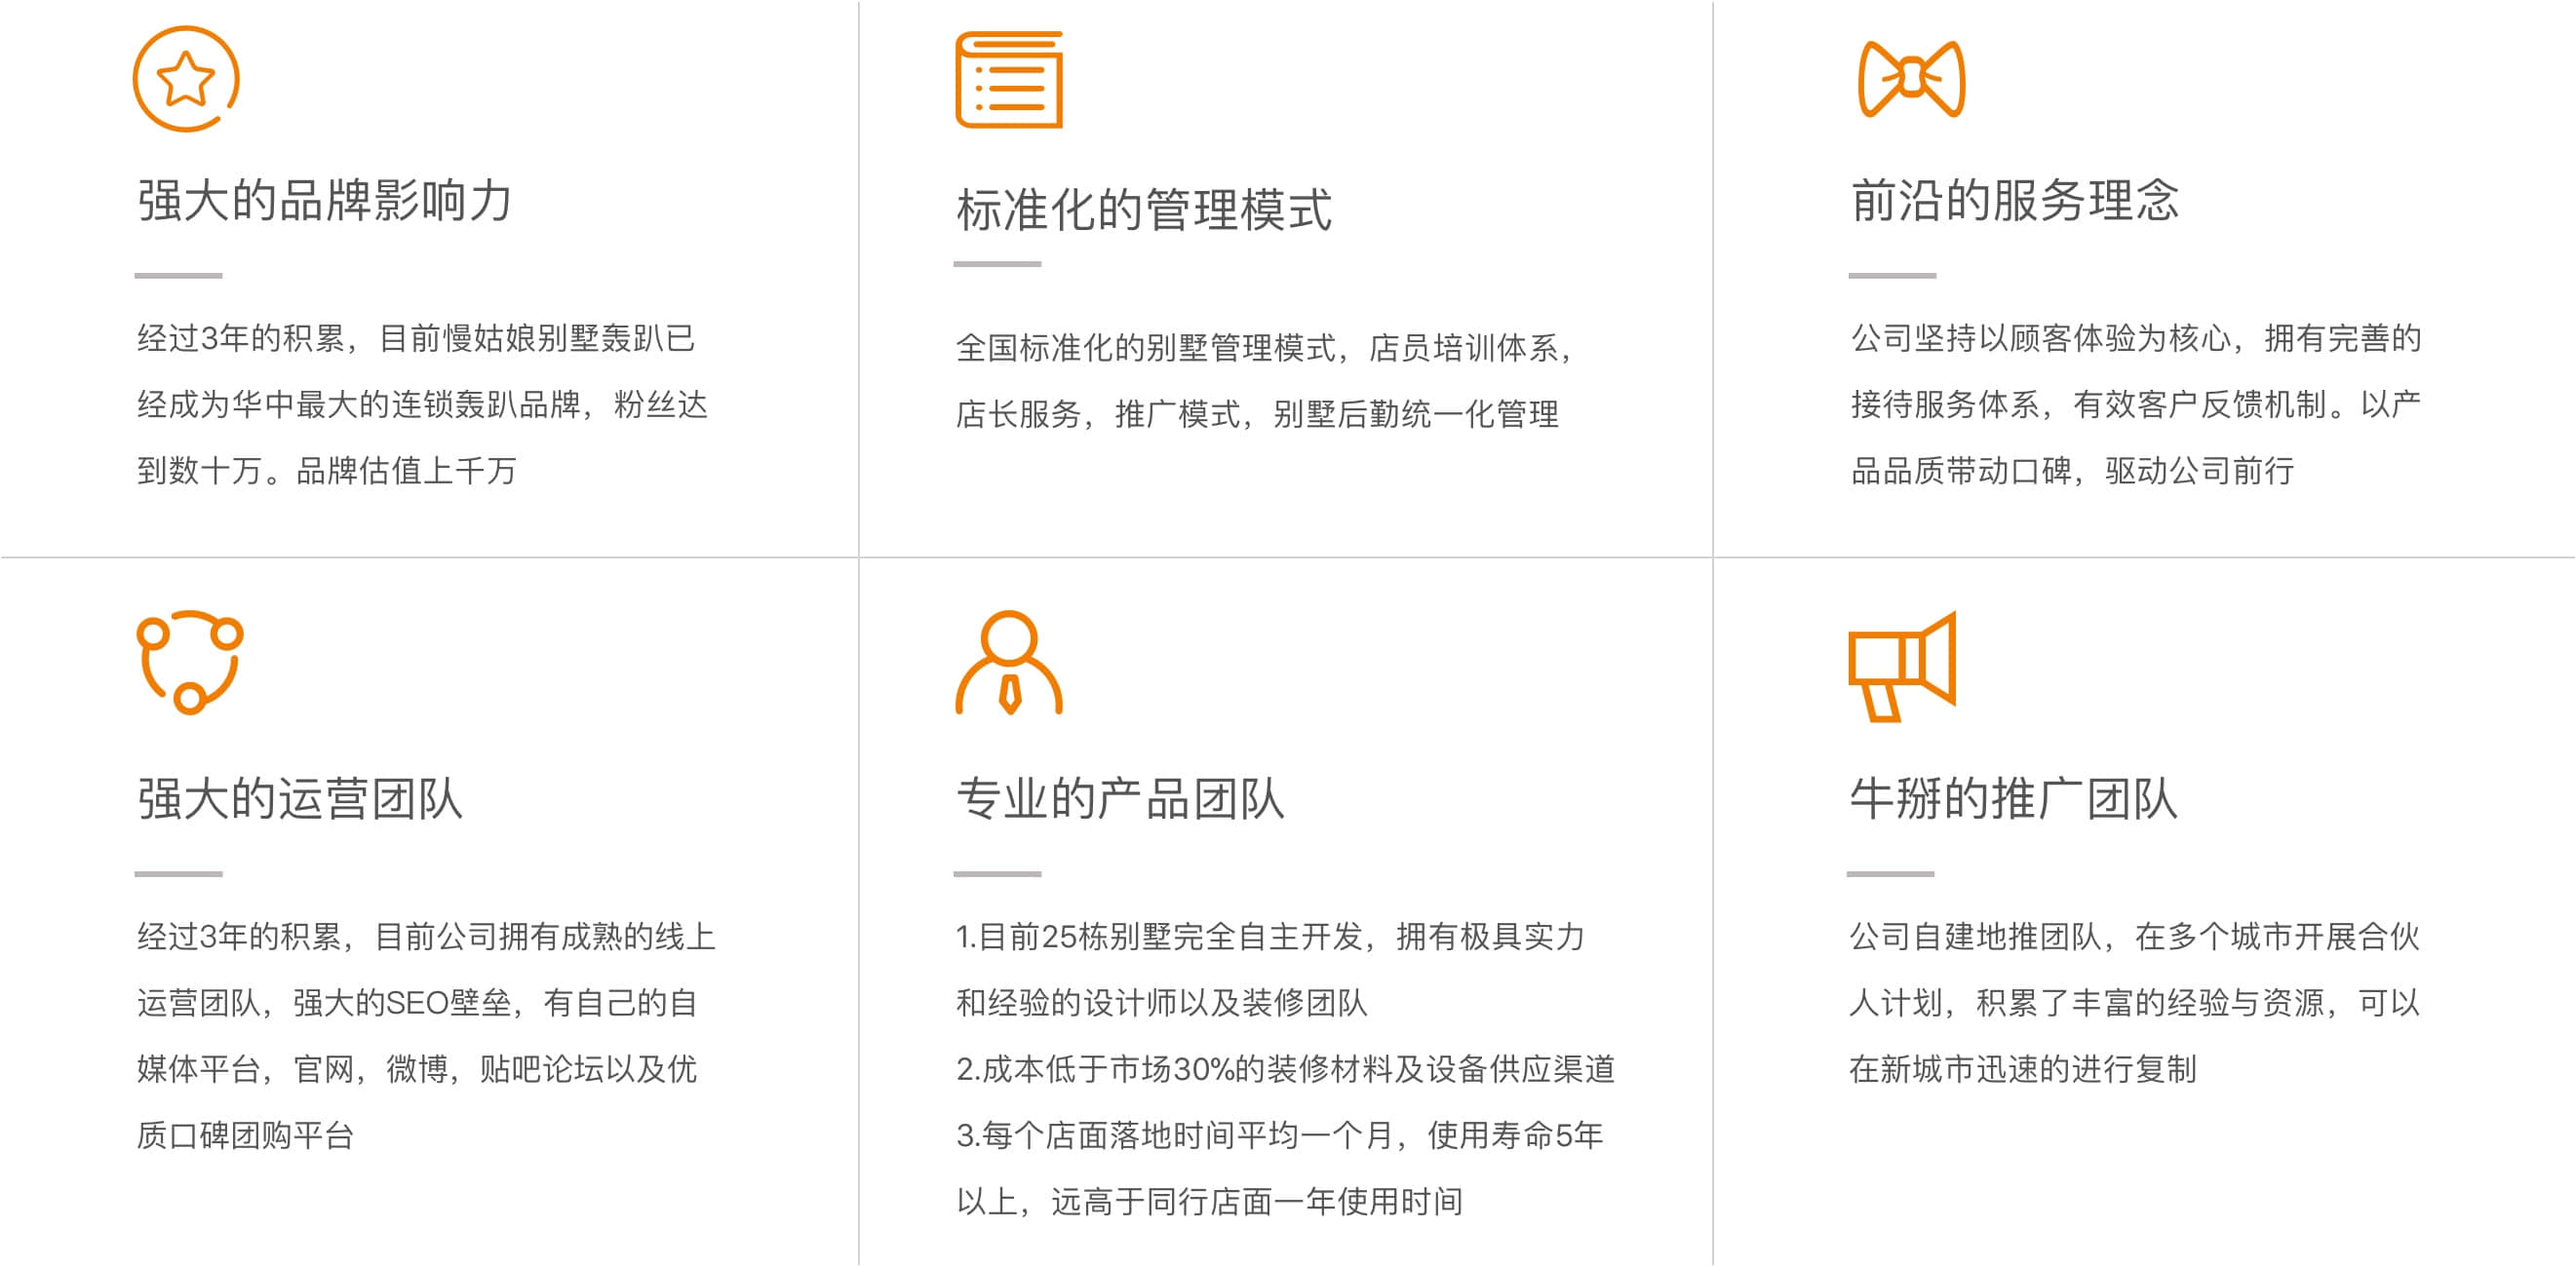
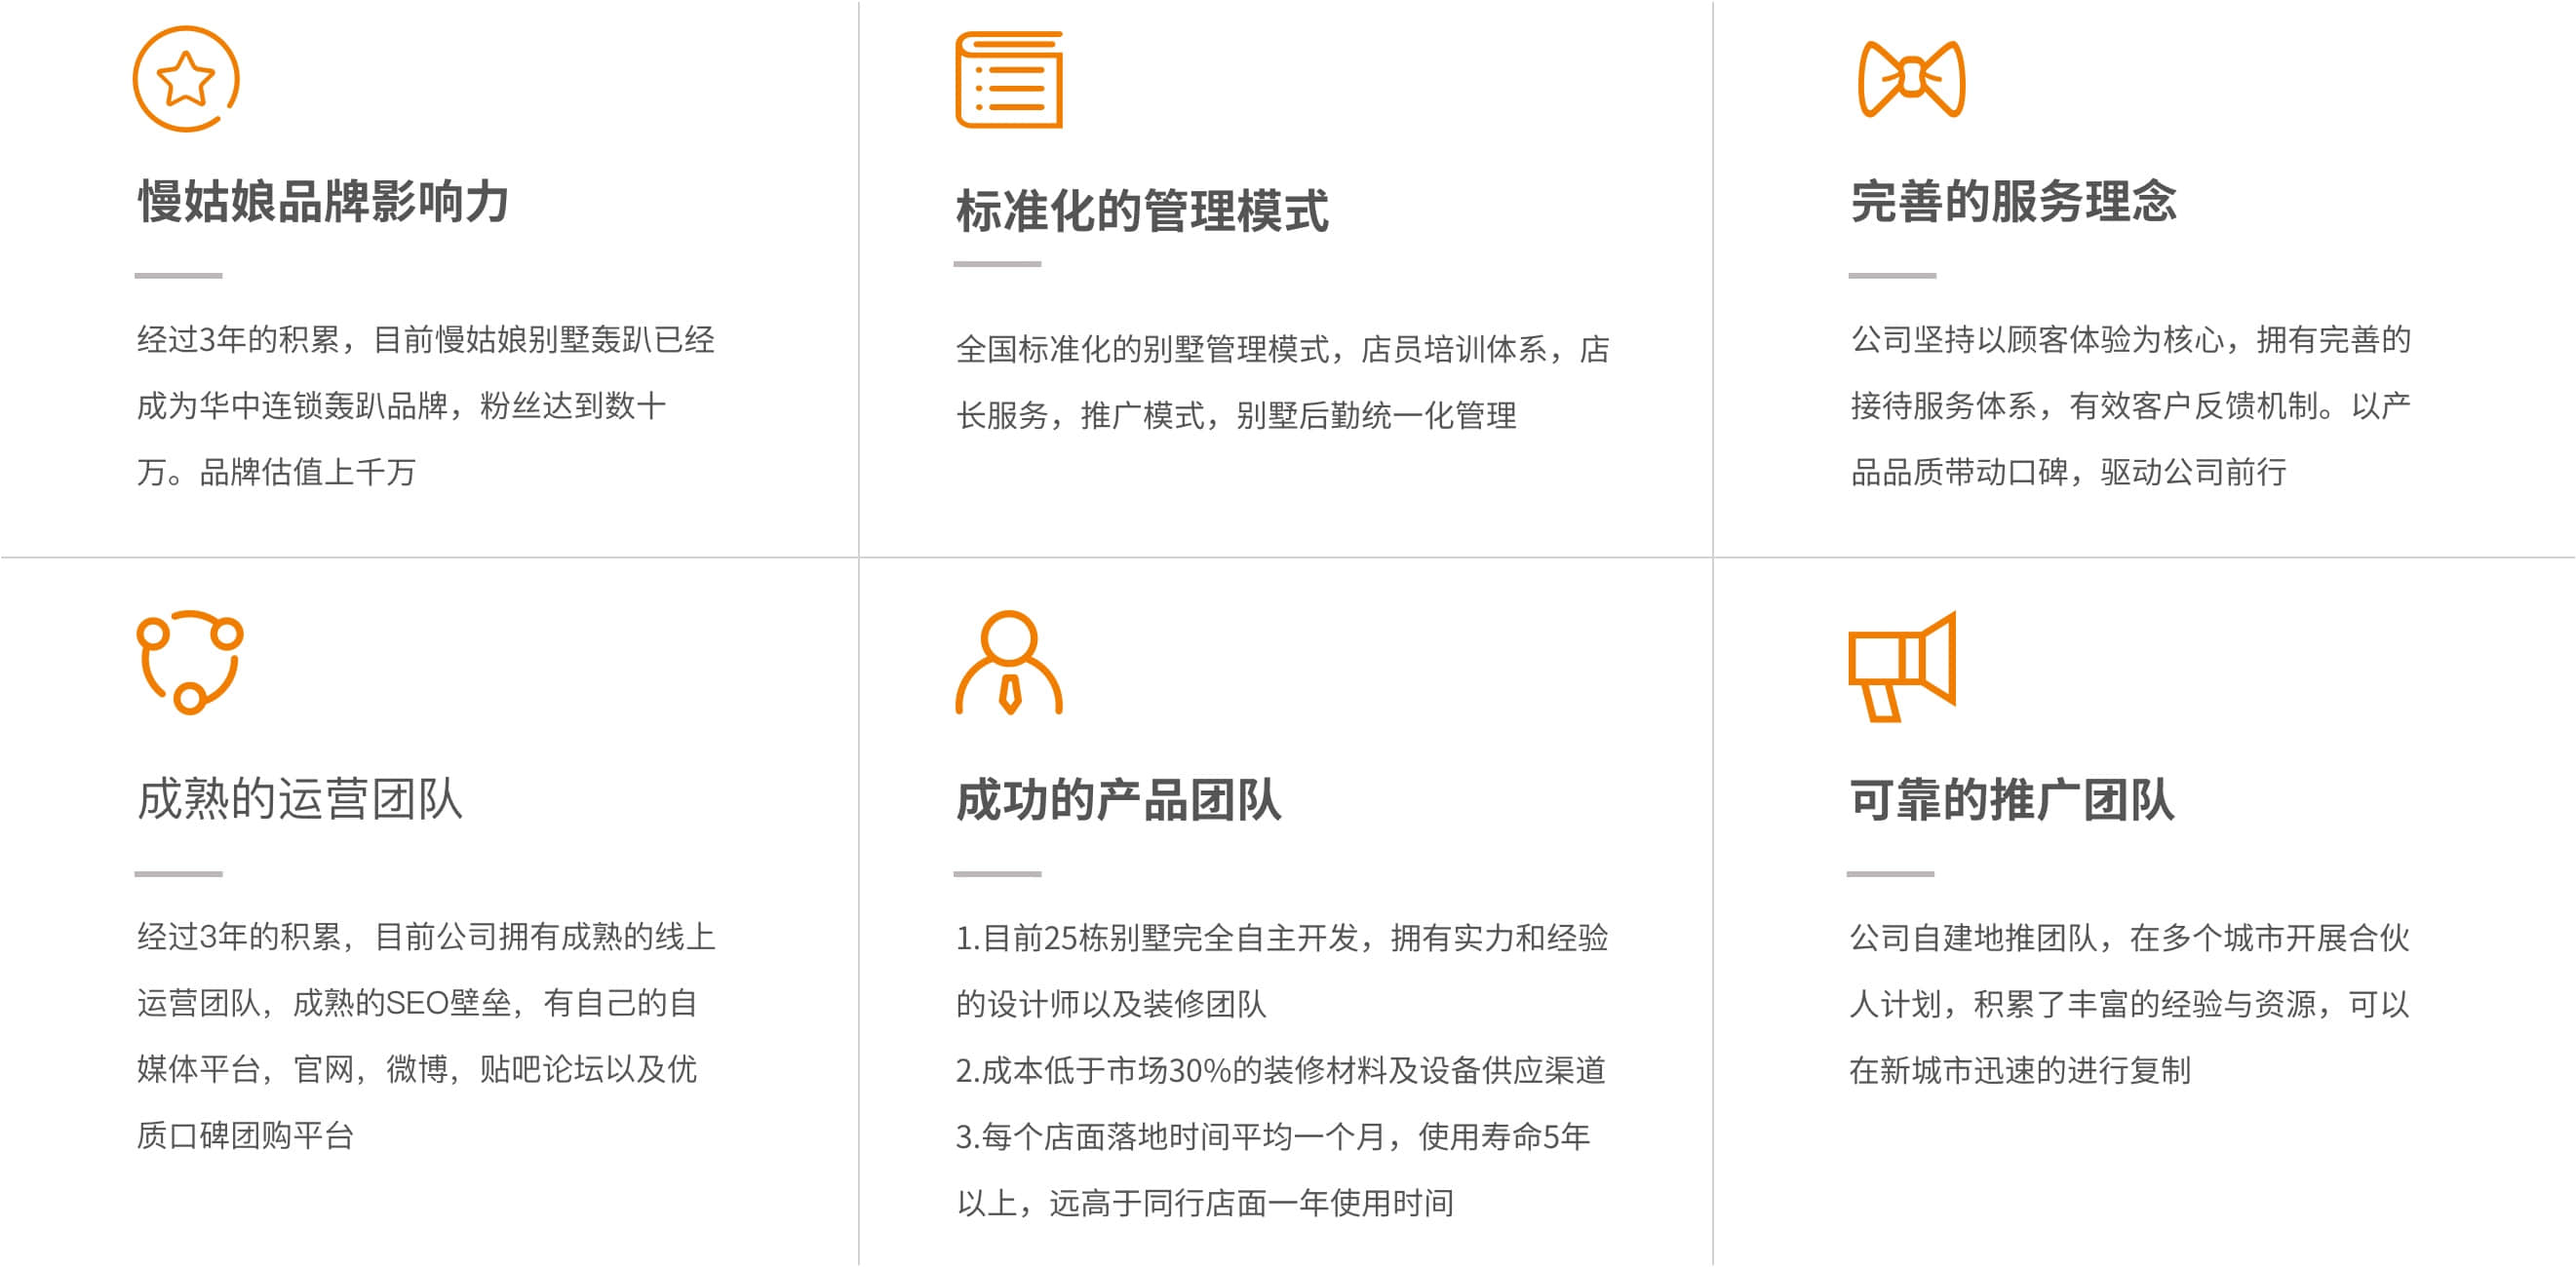
add

diff --git a/src/pages/brand.vue b/src/pages/brand.vue
@@ -3,7 +3,7 @@
         <div class="section1 relative">
             <hp-image :src="headerImage" alt=""></hp-image>
             <div class="s1-text-wrap image-text-wrap" layout="column" layout-align="center center">
-                <div class="title">因为更懂年轻人，所以我们受欢迎</div><br>
+                <div class="title">因为懂年轻人，所以我们受欢迎</div><br>
                 <!-- <div class="sub-tilte fs-18">目前华中最大互联网+连锁轰趴品牌</div> -->
                 <a class="btn btn-white block" href="#/cooperation">了解加盟合作</a>
             </div>
@@ -17,7 +17,7 @@
                             <use xlink:href="#icon-zuanshi"></use>
                         </svg>
                     </div><br><br>
-                    <div class="text text-l3">打造中国领先的<br v-if="isMobile">专业派对文化<br>连锁品牌</div>
+                    <div class="text text-l3">打造中国<br v-if="isMobile">派对文化<br>连锁品牌</div>
                 </div>
                 <div class="p1-item text-center" flex="1">
                     <div class="circle-primary inline-block" :class="{'big':!isMobile}">
@@ -33,7 +33,7 @@
                             <use xlink:href="#icon-lianjie"></use>
                         </svg>
                     </div><br><br>
-                    <div class="text text-l3">打造中国领先的<br v-if="isMobile">综合性聚会<br>娱乐平台</div>
+                    <div class="text text-l3">打造中国<br v-if="isMobile">综合性聚会<br>娱乐平台</div>
                 </div>
             </div>
         </div>
@@ -47,22 +47,22 @@
                         <svg class="icon yizhanshi fs-60" aria-hidden="true">
                             <use xlink:href="#icon-yizhanshi"></use>
                         </svg><br><br>
-                        <div class="text-l2 font-bold">一站式服务</div><br>
-                        <div class="text-l1">为客户提供吃、喝、玩、住一站式服务，打造多种娱乐场景的集合，更适合年轻人聚会的轰趴品牌</div>
+                        <div class="text-l2 font-bold">多样化服务</div><br>
+                        <div class="text-l1">为客户提供吃、喝、玩、住多样化服务，打造多种娱乐场景的集合，适合年轻人聚会的轰趴品牌</div>
                     </div>
                     <div class="p1-item text-center" flex="1">
                         <svg class="icon dunpai fs-60" aria-hidden="true">
                             <use xlink:href="#icon-dunpai"></use>
                         </svg><br><br>
                         <div class="text-l2 font-bold">标准化管理</div><br>
-                        <div class="text-l1">打造轰趴行业标准化管理的行业准则，让客户享受到轰趴行业的五星级服务</div>
+                        <div class="text-l1">打造轰趴行业标准化管理的行业准则，让客户体验到轰趴行业的诚挚服务</div>
                     </div>
                     <div class="p1-item text-center" flex="1">
                         <svg class="icon guanjia fs-60" aria-hidden="true">
                             <use xlink:href="#icon-guanjia"></use>
                         </svg><br><br>
                         <div class="text-l2 font-bold">管家式服务</div><br>
-                        <div class="text-l1">通过专业化培训，让每位管家=初级厨师+活动策划师+布场达人+轰趴运营专员</div>
+                        <div class="text-l1">通过培训，让每位管家=初级厨师+活动策划师+布场达人+轰趴运营专员</div>
                     </div>
                 </div>
             </div>
@@ -153,7 +153,7 @@
                 <div flex="60" flex-xs="100" class="text-wrap" layout="column" layout-align="center center">
                     <div class="text-left">
                         <div class="fs-24">2个基本点：装修+定制</div><br>
-                        <div class="fs-18 color-grey">装修：专业的装修团队，优质的材料与设备供应渠道，打造主题鲜明性价比一流的轰趴馆<br>定制：每月主题活动派对，专业布场，打造特色活动IP，创造粉丝效益，建立行业壁垒</div>
+                        <div class="fs-18 color-grey">装修：成熟的装修团队，好的材料与设备供应渠道，打造主题鲜明性价比强的轰趴馆<br>定制：每月主题活动派对，场地布置，打造特色活动IP，制造粉丝效益，建立行业壁垒</div>
                     </div>
                 </div>
                 <div flex class="margin-left-10">
@@ -166,8 +166,8 @@
                 </div>
                 <div flex class="text-wrap margin-left-10" layout="column" layout-align="center center">
                     <div class="text-left">
-                        <div class="fs-24">3大核心：服务+SEO+地推</div><br>
-                        <div class="fs-18 color-grey">服务：一流的管理团队及培训体系，标准化的服务流程，完善的售后回访机制，以服务打动客户<br>SEO：强大的SEO推广团队，全渠道推广，海量曝光和优质口碑集群，强大的业务壁垒<br>地推：狼性的地推团队，强大的地推网络，完善的校园以及地域合伙人制度</div>
+                        <div class="fs-24">3大要点：服务+SEO+地推</div><br>
+                        <div class="fs-18 color-grey">服务：完善的管理团队及培训体系，标准化的服务流程，售后回访机制，以服务打动客户<br>SEO：成熟的SEO推广团队，全渠道推广，全面曝光口碑集群。<br>地推：狼性的地推团队，成熟的地推网络，完善的校园以及地域合伙人制度。</div>
                     </div>
                 </div>
             </div>
@@ -184,7 +184,7 @@
         </div>
 
         <div class="section3 text-center">
-            <div class="title">我们有牛掰的团队</div>
+            <div class="title">我们有成熟的团队</div>
             <div v-if="!isMobile" class="team-container relative">
                 <div v-for="(item, index) in teamList" :key="item" class="team-item" ref="teams" @click="teamMemberClick(index)">
                     <img :src="item" alt="">

diff --git a/src/pages/introduce.vue b/src/pages/introduce.vue
@@ -15,7 +15,7 @@
         <div class="section2 text-center">
             <div class="paragrah">
                 <div class="title fs-36">一栋别墅，花样百出</div>
-                <div class="p1 text-l3 fs-18 color-grey">随着消费水平的提高，人们对娱乐的需求越大，对娱乐方式的要求也越高。别墅轰趴顺应时代的潮流悄然探头！从各种分析中我们能预见，它将以越来越流行和被普及的姿态，取代传统单一的娱乐方式。前期的市场已验证它的潜力，而此时，正是进入这个领域的最佳时期！</div>
+                <div class="p1 text-l3 fs-18 color-grey">随着消费水平的提升，人们对娱乐的需求越大，对娱乐方式的要求也越高。别墅轰趴顺应时代的潮流悄然探头！从分析中我们能预见，它将以越来越流行和被普及的姿态，取代传统单一的娱乐方式。前期的市场已验证它的潜能，而此时，正是进入这个领域的时期！</div>
             </div>
             <div v-if="!isMobile" class="inline-block" style="max-width: 1440px;width:100%;">
                 <div class="image-wrap" layout="column">
@@ -126,9 +126,9 @@
                 <div flex class="text-right margin-left-10">
                     <div class="fs-36" style="margin-bottom: 60px;">国内聚会存在的问题是什么？</div>
                     <div class="fs-24 text-l2">服务单一，转场难</div><br>
-                    <div class="fs-16 text-l1 color-grey">“每次跟朋友聚会都太单调了，但想玩的丰富点，那就要集体打车换场子，奔波过后，都没心思玩了，而且人多的话更众口难调！”</div><br><br><br><br>
+                    <div class="fs-16 text-l1 color-grey">“每次跟朋友聚会都太单调了，但想玩的丰富点，那就要集体打车换场子，奔波过后，都没心思玩了，而且人多的话众口难调！”</div><br><br><br><br>
                     <div class="fs-24 text-l2">费用高，体验差</div><br>
-                    <div class="fs-16 text-l1 color-grey">越想玩的好越贵，比如唱K加吃饭，再去玩玩桌游，这么多人还真不便宜，而且不能保证服务和环境的质量。</div>
+                    <div class="fs-16 text-l1 color-grey">越想玩的好越贵，比如唱K加吃饭，再去玩玩桌游，这么多人还真不便宜，而且不能保障服务和环境的质量。</div>
                 </div>
             </div>
         </div>

diff --git a/src/pages/home.vue b/src/pages/home.vue
@@ -51,7 +51,7 @@
                             <use xlink:href="#icon-lingdai"></use>
                         </svg>
                         <div class="title text-l2 font-bold">品牌宗旨</div>
-                        <span class="text-l2">一站式服务</span><br>
+                        <span class="text-l2">多样化服务</span><br>
                         <span class="text-l2">标准化管理</span><br>
                         <span class="text-l2">管家式服务</span>
                     </div>
@@ -60,9 +60,9 @@
                             <use xlink:href="#icon-tianping"></use>
                         </svg>
                         <div class="title text-l2 font-bold">竞争优势</div>
-                        <span class="text-l2">强大而健全的团队</span><br>
-                        <span class="text-l2">强大的品牌影响力</span><br>
-                        <span class="text-l2">前沿的服务理念</span>
+                        <span class="text-l2">成熟健全的团队</span><br>
+                        <span class="text-l2">连锁品牌影响力</span><br>
+                        <span class="text-l2">完善的服务理念</span>
                     </div>
                     <div flex="1" flex-xs="50" class="section2-2-p-item">
                         <svg class="icon duoyuanhua" aria-hidden="true">
@@ -70,7 +70,7 @@
                         </svg>
                         <div class="title text-l2 font-bold">多元化盈利</div>
                         <span class="text-l2">拓展轰趴周边的盈利模式</span><br>
-                        <span class="text-l2">挖掘更新鲜的玩法</span><br>
+                        <span class="text-l2">挖掘多样化的玩法</span><br>
                         <span class="text-l2">多元化盈利</span>
                     </div>
                     <div flex="1" flex-xs="50" class="section2-2-p-item">
@@ -79,7 +79,7 @@
                         </svg>
                         <div class="title text-l2 font-bold">战略优势</div>
                         <span class="text-l2">2个基本点：装修+定制</span><br>
-                        <span class="text-l2">3大核心：服务+SEO+地推</span>
+                        <span class="text-l2">3大要点：服务+SEO+地推</span>
                     </div>
                 </div>
                 <a class="btn btn-primary block" href="#/brand">了解品牌 >></a>

diff --git a/src/pages/jiameng.vue b/src/pages/jiameng.vue
@@ -95,7 +95,7 @@
                         </ul>
                     </div><br v-if="!isMobile"><br v-if="!isMobile">
                     <div class="text-center" style="height: 50px;">
-                        <a class="btn btn-primary bg" style="border-radius:0;cursor: default;">5万加盟费 +5万保证金+3%服务费</a>
+                        <a class="btn btn-primary bg" style="border-radius:0;cursor: default;">6万加盟费+6万保证金+4%服务费</a>
                     </div>
                 </div>
                 <div flex="5" flex-xs="0"></div>
@@ -123,7 +123,7 @@
                         </ul>
                     </div>
                     <div class="text-center">
-                        <a class="btn btn-primary bg" style="border-radius:0;cursor: default;">5万保证金+20%服务费</a>
+                        <a class="btn btn-primary bg" style="border-radius:0;cursor: default;">6万保证金+20%服务费</a>
                     </div>
                 </div>
             </div>
